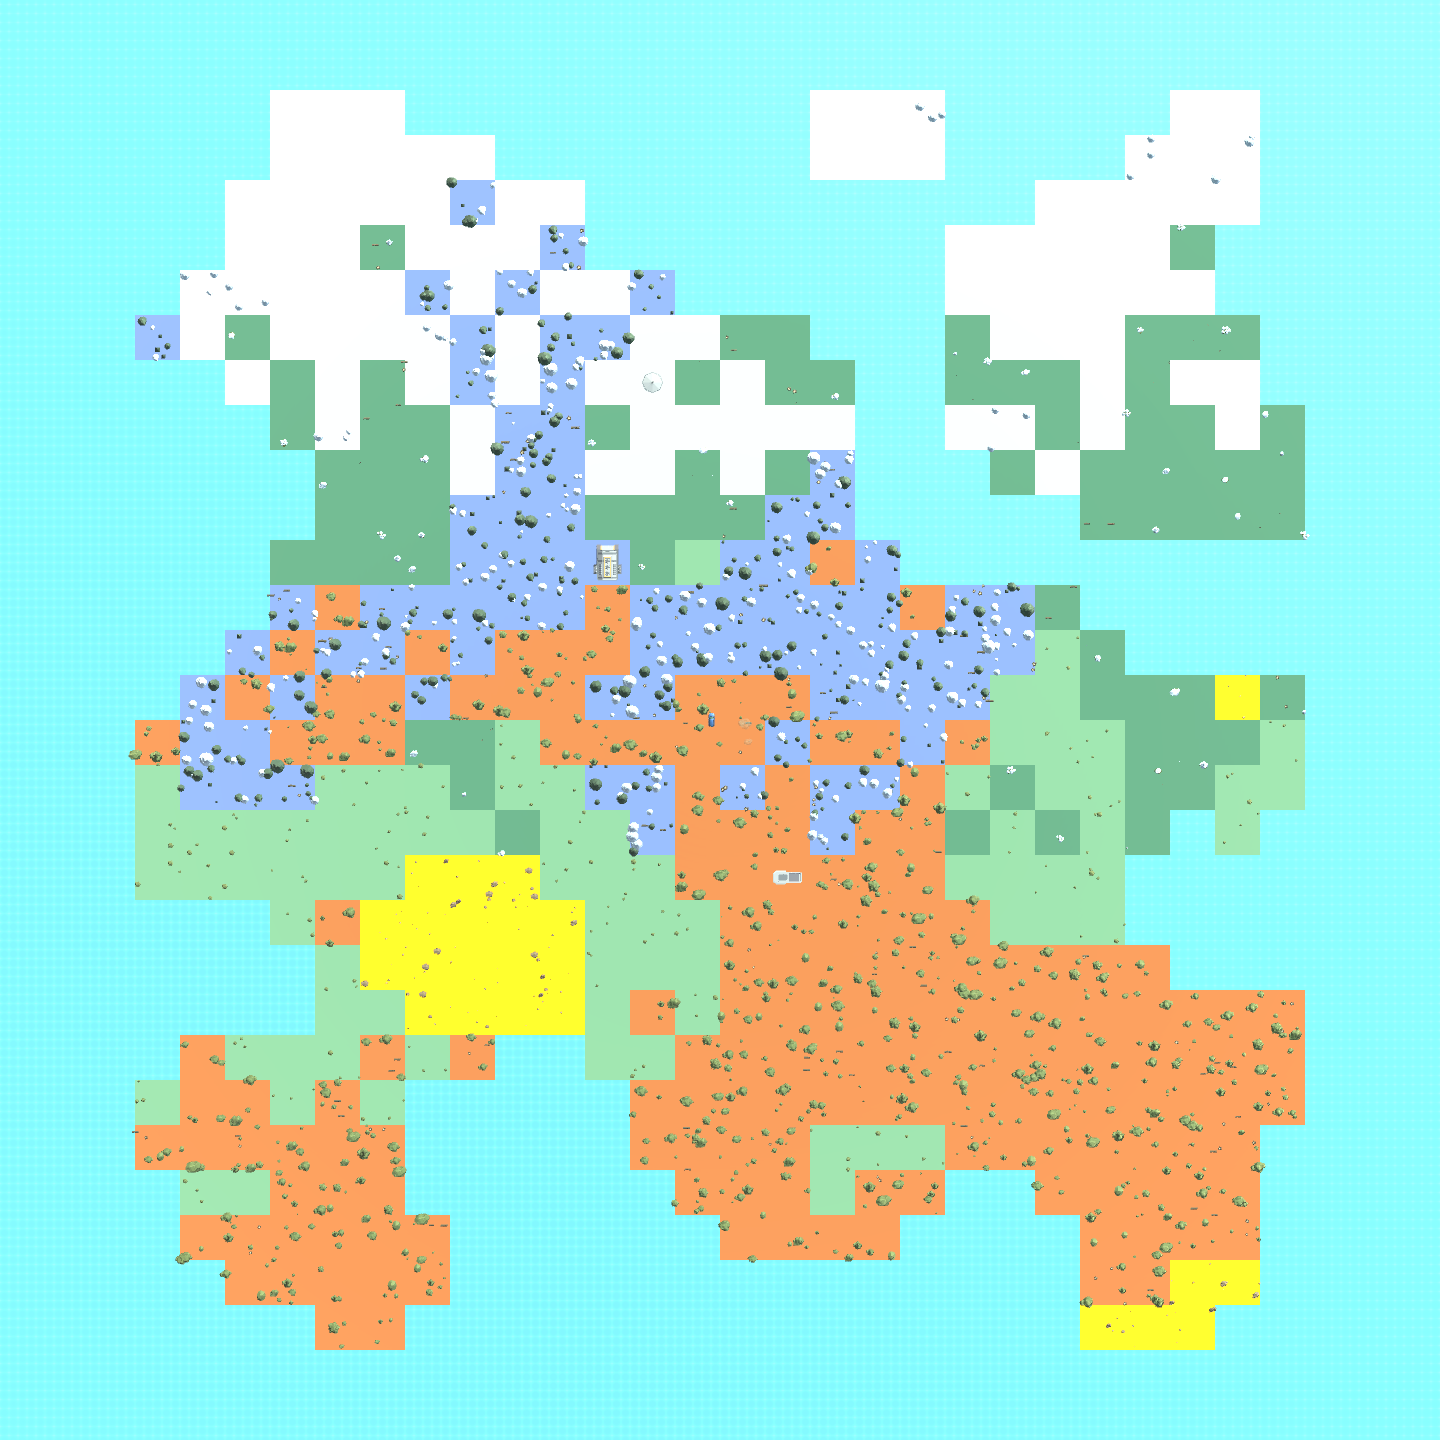
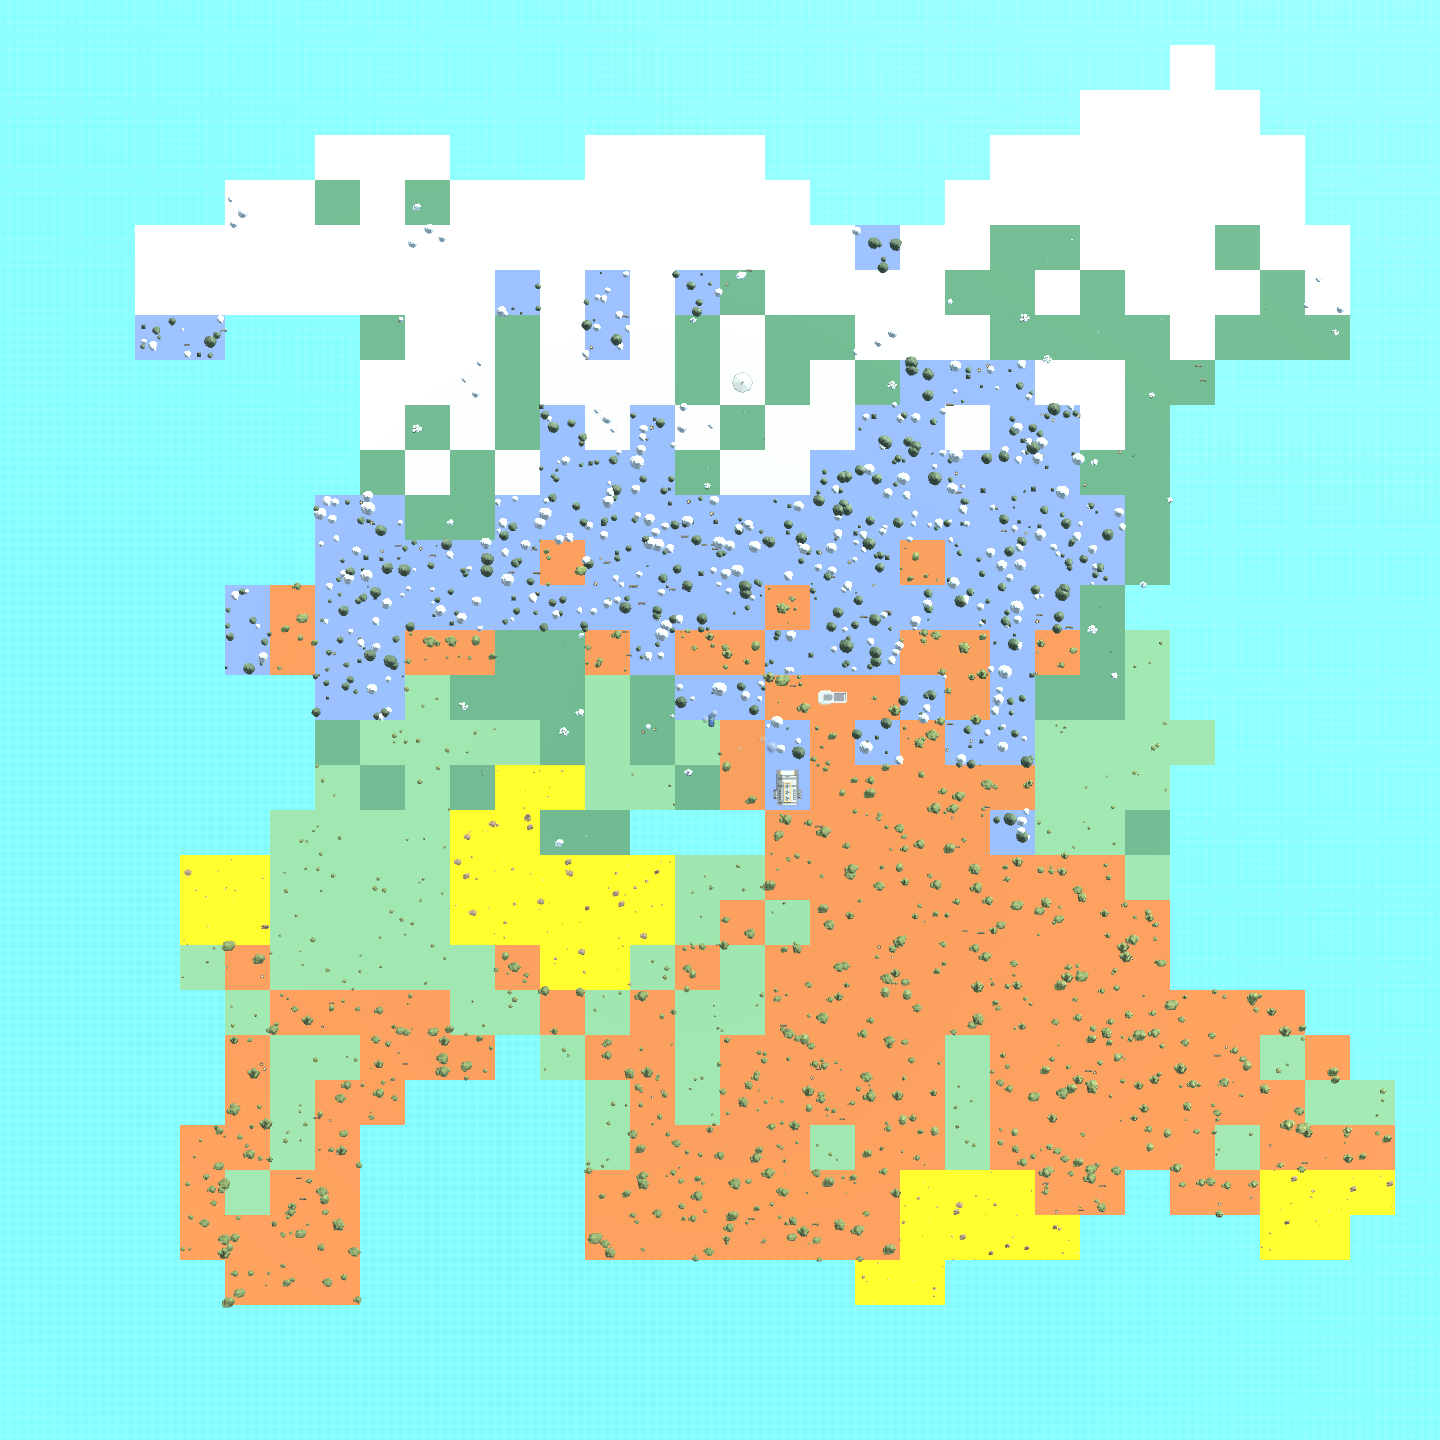
minimap: player indicator

diff --git a/Assets/Scripts/UI/Map/MapUIComponent.cs b/Assets/Scripts/UI/Map/MapUIComponent.cs
@@ -1,0 +1,33 @@
+using Gameplay;
+using UnityEngine;
+using UnityEngine.UI;
+
+namespace UI.Map
+{
+    public class MapUIComponent : MonoBehaviour
+    {
+        [SerializeField] private Image mapImage;
+        [SerializeField] private Image playerIcon;
+
+        private float mapUnit; // in world unit, which is m
+
+        public void Initialize(Texture2D mapTexture2D)
+        {
+            // Set map image's sprite
+            Sprite mapSprite = Sprite.Create(mapTexture2D, new Rect(0, 0, mapTexture2D.width, mapTexture2D.height), new Vector2(0.5f, 0.5f));
+            mapImage.sprite = mapSprite;
+
+            // Precalculate map unit 
+            mapUnit = mapImage.transform.GetComponent<RectTransform>().rect.width / (WorldConfigurations.s_worldGridSize * WorldConfigurations.c_chunkSize);
+        }
+
+        public void UpdatePlayerLocation(Transform playerTransform)
+        {
+            // Set player icon position
+            playerIcon.transform.localPosition = new Vector3(playerTransform.position.x, playerTransform.position.z, 0) * mapUnit;
+
+            // Set player icon rotation
+            playerIcon.transform.localRotation = Quaternion.Euler(0, 0, -playerTransform.rotation.eulerAngles.y - 45f);
+        }
+    }
+}

diff --git a/Assets/Scripts/Managers/UIManager.cs b/Assets/Scripts/Managers/UIManager.cs
@@ -3,6 +3,7 @@ using Entities.Abilities.Observer;
 using Entities.Gun;
 using Gameplay.Quests;
 using TMPro;
+using UI.Map;
 using UnityEngine;
 using UnityEngine.UI;
 using EventType = Entities.Abilities.Observer.EventType;
@@ -155,22 +156,25 @@ namespace Managers
 
         // Maps
         [Header("Maps")]
-        [SerializeField] private Image mapImage;
+        [SerializeField] private MapUIComponent mapUIComponent;
 
         public void RenderMapUIs(Texture2D mapTexture2D)
         {
-            Sprite mapSprite = Sprite.Create(mapTexture2D, new Rect(0, 0, mapTexture2D.width, mapTexture2D.height), new Vector2(0.5f, 0.5f));
-            mapImage.sprite = mapSprite;
+            mapUIComponent.Initialize(mapTexture2D);
         }
 
-        public void OpenMap()
+        public void OpenMap(Transform playerTransform)
         {
+            mapUIComponent.UpdatePlayerLocation(playerTransform);
+
+            // Switch canvas
             combatModeCanvas.enabled = false;
             mapCanvas.enabled = true;
         }
 
         public void CloseMap()
         {
+            // Switch canvas
             combatModeCanvas.enabled = true;
             mapCanvas.enabled = false;
         }

diff --git a/Assets/Scripts/Managers/GameManager.cs b/Assets/Scripts/Managers/GameManager.cs
@@ -313,7 +313,7 @@ namespace Managers
             playerMode = PlayerMode.Map;
 
             SetCursor(UICursorTexture);
-            uiManager.OpenMap();
+            uiManager.OpenMap(currentControllingActor.transform);
         }
 
         private void CloseMap()
